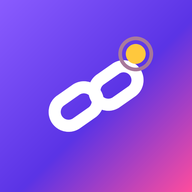
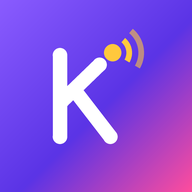
Add files via upload

Changed region(s): [[0.25, 0.1562, 0.8125, 0.75]]

diff --git a/app.html b/app.html
@@ -4,7 +4,7 @@
 <meta charset="utf-8">
 <script>if(window.top!==window.self){try{window.top.location=window.self.location}catch(e){document.documentElement.style.display="none"}}</script>
 <meta name="viewport" content="width=device-width, initial-scale=1, viewport-fit=cover">
-<title>নেটলিংক টেলিকম</title>
+<title>কিবরিয়া টেলিকম</title>
 <link rel="manifest" href="manifest.webmanifest"><meta name="theme-color" content="#2d1a94"><link rel="icon" href="icon-192.png"><link rel="apple-touch-icon" href="icon-192.png"><meta name="apple-mobile-web-app-capable" content="yes"><meta name="mobile-web-app-capable" content="yes">
 <link href="https://fonts.googleapis.com/css2?family=Hind+Siliguri:wght@400;500;700&family=Noto+Sans+Bengali:wght@400;500;700&family=Anek+Bangla:wght@400;500;700&family=Baloo+Da+2:wght@400;500;700&family=Noto+Serif+Bengali:wght@400;500;700&family=Tiro+Bangla&display=swap" rel="stylesheet">
 <script src="https://cdn.jsdelivr.net/npm/@supabase/supabase-js@2.58.0/dist/umd/supabase.min.js"></script>
@@ -172,6 +172,10 @@ dialog,input,select,textarea,button{font-family:inherit}
 .bi.bl0{display:inline-grid;place-items:center;font-style:normal;font-weight:700;font-size:22px;color:#fff;background:linear-gradient(135deg,#8a5cff,#ff4d9d)}
 .bgrid .bi.bl0{font-size:26px}
 .sm .bi,.pk .bi{margin-right:4px}
+.logo{font-size:17px;min-width:0}.logo span{white-space:nowrap}
+#who{max-width:90px;overflow:hidden;text-overflow:ellipsis;white-space:nowrap}
+.hr{flex-wrap:nowrap;white-space:nowrap}
+@media(max-width:430px){#who{display:none}}
 </style>
 </head>
 <body>
@@ -185,7 +189,7 @@ dialog,input,select,textarea,button{font-family:inherit}
 <symbol id="b-bl" viewBox="0 0 40 40"><rect width="40" height="40" rx="11" fill="#f58220"/><text x="20" y="24.500" text-anchor="middle" font-family="Arial,Helvetica,sans-serif" font-weight="800" font-size="19" fill="#fff">bl</text><path d="M10 30q10 5 20 0" stroke="#fff" stroke-width="2.400" fill="none" stroke-linecap="round"/></symbol>
 <symbol id="b-airtel" viewBox="0 0 40 40"><rect width="40" height="40" rx="11" fill="#e40000"/><text x="20" y="28.500" text-anchor="middle" font-family="Arial,Helvetica,sans-serif" font-weight="800" font-size="25" fill="#fff">a</text></symbol>
 <symbol id="b-tt" viewBox="0 0 40 40"><rect width="40" height="40" rx="11" fill="#00a650"/><path d="M10.500 11.500h19v5h-7v14h-5v-14h-7z" fill="#fff"/><circle cx="31" cy="30.500" r="3" fill="#ed1c24"/></symbol>
-<symbol id="logo" viewBox="0 0 64 64"><rect width="64" height="64" rx="19" fill="url(#lgrad1)"/><path d="M0 19Q0 0 19 0H45Q64 0 64 19V26Q32 14 0 34Z" fill="url(#lgrad2)"/><g fill="none" stroke="#fff" stroke-width="5.2" stroke-linecap="round"><rect x="11" y="28" width="25" height="17" rx="8.5" transform="rotate(-35 23.5 36.5)"/><rect x="28" y="19" width="25" height="17" rx="8.5" transform="rotate(-35 40.5 27.5)"/></g><circle cx="49" cy="14" r="4.2" fill="#ffc83d"/><circle cx="49" cy="14" r="7.4" fill="none" stroke="#ffc83d" stroke-opacity=".45" stroke-width="1.6"/></symbol>
+<symbol id="logo" viewBox="0 0 64 64"><rect width="64" height="64" rx="19" fill="url(#lgrad1)"/><path d="M0 19Q0 0 19 0H45Q64 0 64 19V26Q32 14 0 34Z" fill="url(#lgrad2)"/><g fill="none" stroke="#fff" stroke-width="6" stroke-linecap="round" stroke-linejoin="round"><path d="M17 15V49"/><path d="M18 34L33.500 19"/><path d="M24.500 31.500L38 49"/></g><circle cx="39" cy="14" r="3.600" fill="#ffc83d"/><g fill="none" stroke="#ffc83d" stroke-width="2.400" stroke-linecap="round"><path d="M44.100 7.900A8 8 0 0 1 45.900 18"/><path d="M47.400 4A13 13 0 0 1 50.300 20.500" stroke-opacity=".6"/></g></symbol>
 <symbol id="i-recharge" viewBox="0 0 24 24"><rect x="6.5" y="2.5" width="11" height="19" rx="2.8"/><path d="M12.9 7.2L10.3 11.9h3.4l-2.6 4.9"/></symbol>
 <symbol id="i-bill" viewBox="0 0 24 24"><path d="M5.5 3h13v18l-2.6-1.7-2.2 1.7-2.2-1.7-2.2 1.7-2.6-1.7z"/><path d="M9 8h6M9 11.7h6M9 15.3h3.5"/></symbol>
 <symbol id="i-send" viewBox="0 0 24 24"><path d="M3.8 11.6L20.2 4l-4.9 16-3.3-6.4z"/><path d="M12 13.6L20.2 4"/></symbol>
@@ -200,7 +204,7 @@ dialog,input,select,textarea,button{font-family:inherit}
 <symbol id="i-bell" viewBox="0 0 24 24"><path d="M6 16.4V11a6 6 0 0 1 12 0v5.4l1.6 2.1H4.4z"/><path d="M10 20.8a2.1 2.1 0 0 0 4 0"/></symbol>
 <symbol id="i-theme" viewBox="0 0 24 24"><circle cx="12" cy="12" r="8.4"/><path d="M12 3.6v16.8a8.4 8.4 0 0 0 0-16.8z" fill="currentColor"/></symbol>
 </svg>
-<header><div class="w"><div class="logo"><svg class="lm" aria-hidden="true"><use href="#logo"/></svg><span>নেটলিংক<b>.</b></span></div><div class="hr"><span id="who"></span><button class="lk" id="bell" hidden aria-label="নোটিফিকেশন"><svg class="ic"><use href="#i-bell"/></svg><b id="nbg"></b></button><button class="lk" id="adm" hidden>অ্যাডমিন</button><button class="lk" id="out" hidden>লগআউট</button><button class="lk" id="th" aria-label="থিম"><svg class="ic"><use href="#i-theme"/></svg></button></div></div></header>
+<header><div class="w"><div class="logo"><svg class="lm" aria-hidden="true"><use href="#logo"/></svg><span>কিবরিয়া টেলিকম</span></div><div class="hr"><span id="who"></span><button class="lk" id="bell" hidden aria-label="নোটিফিকেশন"><svg class="ic"><use href="#i-bell"/></svg><b id="nbg"></b></button><button class="lk" id="adm" hidden>অ্যাডমিন</button><button class="lk" id="out" hidden>লগআউট</button><button class="lk" id="th" aria-label="থিম"><svg class="ic"><use href="#i-theme"/></svg></button></div></div></header>
 
 <section id="pend" class="w" hidden><div class="lcard" style="margin-top:20px"><h2 id="pt1"></h2><p class="hint" id="pt2"></p><button class="go" id="pkyc" type="button" hidden>তথ্য আবার জমা দিন</button><div id="pnl"></div></div></section>
 
@@ -273,7 +277,7 @@ dialog,input,select,textarea,button{font-family:inherit}
 <h2>সাম্প্রতিক লেনদেন</h2><div class="pk" id="at3"></div>
 <h2>মার্চেন্ট নম্বর</h2><div class="pk"><div class="row"><div><label for="cb">বিকাশ</label><input id="cb" maxlength="11"></div><div><label for="cn">নগদ</label><input id="cn" maxlength="11"></div></div><label for="cr">রকেট</label><input id="cr" maxlength="12"><button class="go" id="cs" style="padding:10px;font-size:16px">সেভ করুন</button></div>
 </main></div>
-<footer>© নেটলিংক টেলিকম</footer>
+<footer>© কিবরিয়া টেলিকম</footer>
 
 <dialog id="dg"><h3 style="margin:0 0 8px">নিশ্চিত করুন</h3><div id="sum"></div>
 <label for="cp">আপনার পাসওয়ার্ড দিয়ে নিশ্চিত করুন</label><input id="cp" type="password" autocomplete="current-password">
@@ -324,7 +328,7 @@ function showLim(){const o=limOf('operator',op,...LMO),s=limOf('payment',sm,...L
 function renderBrands(){if(!BRD.payment.some(b=>b.name===sm))sm=(BRD.payment[0]||{}).name||'';if(op&&!BRD.operator.some(b=>b.name===op))op='';bgrid('#ops',BRD.operator,op,v=>{op=v;showOffers();showLim()});bgrid('#sm',BRD.payment,sm,v=>{sm=v;showLim()});showLim()}
 async function loadBrands(){try{const{data,error}=await sb.from('brands').select('*').eq('active',true).order('sort').order('id');if(error||!data||!data.length)return;BRD={operator:data.filter(b=>b.kind==='operator'),payment:data.filter(b=>b.kind==='payment')};if(!BRD.operator.length)BRD.operator=DEF_BR.operator.slice();if(!BRD.payment.length)BRD.payment=DEF_BR.payment.slice();renderBrands();showOffers()}catch(e){}}
 function weakPw(p,c){c=c||{};p=String(p||'');const L=p.length,lo=p.toLowerCase(),num=/^\d+$/.test(p);
-const common=['password','password1','123456789','1234567890','qwerty','qwerty123','qwertyuiop','abc123','abcdef','iloveyou','admin123','welcome','letmein','bangladesh','netlink','nesco123','111222','112233','121212','123123','123321','159753','520520','696969','1q2w3e','1q2w3e4r','asdfgh','asdfghjk','zxcvbn'];
+const common=['password','password1','123456789','1234567890','qwerty','qwerty123','qwertyuiop','abc123','abcdef','iloveyou','admin123','welcome','letmein','bangladesh','netlink','kibria','kibriya','kibriatelecom','nesco123','111222','112233','121212','123123','123321','159753','520520','696969','1q2w3e','1q2w3e4r','asdfgh','asdfghjk','zxcvbn'];
 if(common.includes(lo))return 'এটা খুব সহজ ও পরিচিত পাসওয়ার্ড।';
 if(/^(.)\1+$/.test(p))return 'একই অক্ষর বারবার (যেমন ১১১১১১) চলবে না।';
 for(let b=1;b<=L/2;b++){if(L%b===0&&p.slice(0,b).repeat(L/b)===p)return 'একই অংশ বারবার (যেমন ১২১২১২, ১২৩১২৩) চলবে না।'}

diff --git a/adminpanel.html b/adminpanel.html
@@ -2,7 +2,7 @@
 <html lang="bn"><head><meta charset="utf-8">
 <script>if(window.top!==window.self){try{window.top.location=window.self.location}catch(e){document.documentElement.style.display="none"}}</script>
 <meta name="viewport" content="width=device-width, initial-scale=1, viewport-fit=cover">
-<title>অ্যাডমিন – নেটলিংক</title>
+<title>অ্যাডমিন – কিবরিয়া টেলিকম</title>
 <link href="https://fonts.googleapis.com/css2?family=Hind+Siliguri:wght@400;500;700&family=Noto+Sans+Bengali:wght@400;500;700&family=Anek+Bangla:wght@400;500;700&family=Baloo+Da+2:wght@400;500;700&family=Noto+Serif+Bengali:wght@400;500;700&family=Tiro+Bangla&display=swap" rel="stylesheet">
 <script src="https://cdn.jsdelivr.net/npm/@supabase/supabase-js@2.58.0/dist/umd/supabase.min.js"></script>
 <script>window.supabase||document.write('<script src="https://unpkg.com/@supabase/supabase-js@2.58.0/dist/umd/supabase.min.js"><\/script>')</script>
@@ -17,7 +17,7 @@ body{margin:0;background:var(--bg);color:var(--ink);font-family:'Baloo Da 2','Hi
 button{font-family:inherit;cursor:pointer}
 header{position:sticky;top:env(safe-area-inset-top,0px);background:var(--card);border-bottom:1px solid var(--line);z-index:5;box-shadow:0 2px 12px rgba(45,26,148,.05)}
 header .w{display:flex;align-items:center;justify-content:space-between;height:60px}
-.logo{display:flex;align-items:center;gap:10px;font-weight:700;font-size:20px;color:var(--ink)}.logo b{color:var(--acc)}
+.logo{display:flex;align-items:center;gap:8px;font-weight:700;font-size:17px;color:var(--ink);min-width:0}.logo span{white-space:nowrap}.logo b{color:var(--acc)}
 .lm{width:34px;height:34px;flex:none;filter:drop-shadow(0 3px 6px rgba(106,61,240,.35))}
 .tag{font-size:12px;font-weight:700;background:linear-gradient(135deg,#ffb020,#ff7a18);color:#fff;border-radius:999px;padding:2px 10px;margin-left:2px}
 .hr{display:flex;gap:8px;align-items:center;font-size:14px}
@@ -108,7 +108,7 @@ div.kc{cursor:default}
 .kp{height:auto;max-height:150px;object-fit:contain;margin:6px 0}
 </style></head><body>
 <svg width="0" height="0" style="position:absolute" aria-hidden="true" focusable="false"><defs><linearGradient id="lgrad1" x1="0" y1="0" x2="1" y2="1"><stop offset="0" stop-color="#8a5cff"/><stop offset=".55" stop-color="#5b34e6"/><stop offset="1" stop-color="#ff4d9d"/></linearGradient><linearGradient id="lgrad2" x1="0" y1="0" x2="1" y2="1"><stop offset="0" stop-color="#fff" stop-opacity=".28"/><stop offset="1" stop-color="#fff" stop-opacity="0"/></linearGradient></defs>
-<symbol id="logo" viewBox="0 0 64 64"><rect width="64" height="64" rx="19" fill="url(#lgrad1)"/><path d="M0 19Q0 0 19 0H45Q64 0 64 19V26Q32 14 0 34Z" fill="url(#lgrad2)"/><g fill="none" stroke="#fff" stroke-width="5.2" stroke-linecap="round"><rect x="11" y="28" width="25" height="17" rx="8.5" transform="rotate(-35 23.5 36.5)"/><rect x="28" y="19" width="25" height="17" rx="8.5" transform="rotate(-35 40.5 27.5)"/></g><circle cx="49" cy="14" r="4.2" fill="#ffc83d"/><circle cx="49" cy="14" r="7.4" fill="none" stroke="#ffc83d" stroke-opacity=".45" stroke-width="1.6"/></symbol>
+<symbol id="logo" viewBox="0 0 64 64"><rect width="64" height="64" rx="19" fill="url(#lgrad1)"/><path d="M0 19Q0 0 19 0H45Q64 0 64 19V26Q32 14 0 34Z" fill="url(#lgrad2)"/><g fill="none" stroke="#fff" stroke-width="6" stroke-linecap="round" stroke-linejoin="round"><path d="M17 15V49"/><path d="M18 34L33.500 19"/><path d="M24.500 31.500L38 49"/></g><circle cx="39" cy="14" r="3.600" fill="#ffc83d"/><g fill="none" stroke="#ffc83d" stroke-width="2.400" stroke-linecap="round"><path d="M44.100 7.900A8 8 0 0 1 45.900 18"/><path d="M47.400 4A13 13 0 0 1 50.300 20.500" stroke-opacity=".6"/></g></symbol>
 <symbol id="a-dash" viewBox="0 0 24 24"><rect x="3.5" y="3.5" width="7.5" height="9" rx="2"/><rect x="13" y="3.5" width="7.5" height="5.5" rx="2"/><rect x="13" y="11.5" width="7.5" height="9" rx="2"/><rect x="3.5" y="15" width="7.5" height="5.5" rx="2"/></symbol>
 <symbol id="a-inbox" viewBox="0 0 24 24"><path d="M3.5 13l2.4-7.2A2 2 0 0 1 7.8 4.5h8.4a2 2 0 0 1 1.9 1.3L20.5 13"/><path d="M3.5 13v4.5a2 2 0 0 0 2 2h13a2 2 0 0 0 2-2V13h-5l-1.3 2.2h-4.4L8.5 13z"/></symbol>
 <symbol id="a-users" viewBox="0 0 24 24"><circle cx="9" cy="8.2" r="3.3"/><path d="M2.8 19.5c.5-3.3 3-5.2 6.2-5.2s5.7 1.9 6.2 5.2"/><path d="M16 5.2a3.1 3.1 0 0 1 0 6M18.4 14.6c1.6.7 2.6 2.2 2.8 4.4"/></symbol>
@@ -123,8 +123,8 @@ div.kc{cursor:default}
 <symbol id="a-gear" viewBox="0 0 24 24"><circle cx="12" cy="12" r="3"/><path d="M12 2.8v2.4M12 18.8v2.4M2.8 12h2.4M18.8 12h2.4M5.5 5.5l1.7 1.7M16.8 16.8l1.7 1.7M5.5 18.5l1.7-1.7M16.8 7.2l1.7-1.7"/></symbol>
 <symbol id="a-out" viewBox="0 0 24 24"><path d="M9 4.5H6.5a2 2 0 0 0-2 2v11a2 2 0 0 0 2 2H9"/><path d="M14 8l4 4-4 4M18 12H9.5"/></symbol>
 </svg>
-<header><div class="w"><div class="logo"><svg class="lm" aria-hidden="true"><use href="#logo"/></svg><span>নেটলিংক<b>.</b></span><span class="tag">অ্যাডমিন</span></div><div class="hr"><button class="ib" id="out" hidden aria-label="লগআউট"><svg class="ic"><use href="#a-out"/></svg></button></div></div></header>
-<section id="lg" class="w login"><div class="box plain"><div class="lgh"><svg class="lm" aria-hidden="true"><use href="#logo"/></svg><div><b>নেটলিংক</b><small>অ্যাডমিন প্যানেল</small></div></div><h2 style="margin:6px 0 4px">লগইন করুন</h2>
+<header><div class="w"><div class="logo"><svg class="lm" aria-hidden="true"><use href="#logo"/></svg><span>কিবরিয়া টেলিকম</span><span class="tag">অ্যাডমিন</span></div><div class="hr"><button class="ib" id="out" hidden aria-label="লগআউট"><svg class="ic"><use href="#a-out"/></svg></button></div></div></header>
+<section id="lg" class="w login"><div class="box plain"><div class="lgh"><svg class="lm" aria-hidden="true"><use href="#logo"/></svg><div><b>কিবরিয়া টেলিকম</b><small>অ্যাডমিন প্যানেল</small></div></div><h2 style="margin:6px 0 4px">লগইন করুন</h2>
 <form onsubmit="return false"><label for="em">ইমেইল</label><input id="em" type="email" autocomplete="email"><label for="pw">পাসওয়ার্ড</label><input id="pw" type="password" autocomplete="current-password"><label for="otp">ওটিপি</label><input id="otp" inputmode="numeric" autocomplete="one-time-code" maxlength="8" placeholder="• • • •"><div class="otpbar"><span>⏱ সময় বাকি: <b id="otpt">২:০০</b></span><button type="button" class="sb" id="otpr" hidden>নতুন করে শুরু করুন</button></div><div class="otpp"><i id="otpb"></i></div>
 <p class="hint pr" id="msg"></p><button class="go" id="ag">লগইন</button></form><p class="hint pr" id="st">⚠ স্ক্রিপ্ট চালু হয়নি। ইন্টারনেট/ব্রাউজার চেক করুন বা পেজ রিফ্রেশ করুন।</p></div></section>
 
@@ -318,7 +318,7 @@ async function loadEarn(){const{data}=await sb.rpc('admin_earnings');const d=dat
 let U=[],TP=[],TX=[],cfg={},cur=null,timer=null;
 const toast=t=>{const x=$('#toast');x.textContent=t;x.style.display='block';try{if(x.matches(':popover-open'))x.hidePopover();x.showPopover()}catch(e){}clearTimeout(x._t);x._t=setTimeout(()=>{x.style.display='none';try{x.hidePopover()}catch(e){}},4000)};
 function weakPw(p,c){c=c||{};p=String(p||'');const L=p.length,lo=p.toLowerCase(),num=/^\d+$/.test(p);
-const common=['password','password1','123456789','1234567890','qwerty','qwerty123','qwertyuiop','abc123','abcdef','iloveyou','admin123','welcome','letmein','bangladesh','netlink','nesco123','111222','112233','121212','123123','123321','159753','520520','696969','1q2w3e','1q2w3e4r','asdfgh','asdfghjk','zxcvbn'];
+const common=['password','password1','123456789','1234567890','qwerty','qwerty123','qwertyuiop','abc123','abcdef','iloveyou','admin123','welcome','letmein','bangladesh','netlink','kibria','kibriya','kibriatelecom','nesco123','111222','112233','121212','123123','123321','159753','520520','696969','1q2w3e','1q2w3e4r','asdfgh','asdfghjk','zxcvbn'];
 if(common.includes(lo))return 'এটা খুব সহজ ও পরিচিত পাসওয়ার্ড।';
 if(/^(.)\1+$/.test(p))return 'একই অক্ষর বারবার (যেমন ১১১১১১) চলবে না।';
 for(let b=1;b<=L/2;b++){if(L%b===0&&p.slice(0,b).repeat(L/b)===p)return 'একই অংশ বারবার (যেমন ১২১২১২, ১২৩১২৩) চলবে না।'}

diff --git a/index.html b/index.html
@@ -4,7 +4,7 @@
 <meta charset="utf-8">
 <script>if(window.top!==window.self){try{window.top.location=window.self.location}catch(e){document.documentElement.style.display="none"}}</script>
 <meta name="viewport" content="width=device-width, initial-scale=1, viewport-fit=cover">
-<title>নেটলিংক টেলিকম</title>
+<title>কিবরিয়া টেলিকম</title>
 <link rel="manifest" href="manifest.webmanifest"><meta name="theme-color" content="#2d1a94"><link rel="icon" href="icon-192.png"><link rel="apple-touch-icon" href="icon-192.png"><meta name="apple-mobile-web-app-capable" content="yes"><meta name="mobile-web-app-capable" content="yes">
 <link href="https://fonts.googleapis.com/css2?family=Hind+Siliguri:wght@400;500;700&family=Noto+Sans+Bengali:wght@400;500;700&family=Anek+Bangla:wght@400;500;700&family=Baloo+Da+2:wght@400;500;700&family=Noto+Serif+Bengali:wght@400;500;700&family=Tiro+Bangla&display=swap" rel="stylesheet">
 <script src="https://cdn.jsdelivr.net/npm/@supabase/supabase-js@2.58.0/dist/umd/supabase.min.js"></script>
@@ -162,12 +162,13 @@ dialog,input,select,textarea,button{font-family:inherit}
 .lico{width:88px;height:88px;background:none;border-radius:0;margin:0 auto 8px;filter:drop-shadow(0 12px 22px rgba(0,0,0,.35))}.lico svg{width:100%;height:100%;display:block}
 .promo b{color:#ffc83d}
 .gchat{display:flex;align-items:center;gap:8px}.gchat .ic{width:20px;height:20px}
+.logo{font-size:17px;min-width:0}.logo span{white-space:nowrap}
 </style>
 </head>
 <body>
 
 <svg width="0" height="0" style="position:absolute" aria-hidden="true" focusable="false"><defs><linearGradient id="lgrad1" x1="0" y1="0" x2="1" y2="1"><stop offset="0" stop-color="#8a5cff"/><stop offset=".55" stop-color="#5b34e6"/><stop offset="1" stop-color="#ff4d9d"/></linearGradient><linearGradient id="lgrad2" x1="0" y1="0" x2="1" y2="1"><stop offset="0" stop-color="#ffffff" stop-opacity=".28"/><stop offset="1" stop-color="#ffffff" stop-opacity="0"/></linearGradient></defs>
-<symbol id="logo" viewBox="0 0 64 64"><rect width="64" height="64" rx="19" fill="url(#lgrad1)"/><path d="M0 19Q0 0 19 0H45Q64 0 64 19V26Q32 14 0 34Z" fill="url(#lgrad2)"/><g fill="none" stroke="#fff" stroke-width="5.2" stroke-linecap="round"><rect x="11" y="28" width="25" height="17" rx="8.5" transform="rotate(-35 23.5 36.5)"/><rect x="28" y="19" width="25" height="17" rx="8.5" transform="rotate(-35 40.5 27.5)"/></g><circle cx="49" cy="14" r="4.2" fill="#ffc83d"/><circle cx="49" cy="14" r="7.4" fill="none" stroke="#ffc83d" stroke-opacity=".45" stroke-width="1.6"/></symbol>
+<symbol id="logo" viewBox="0 0 64 64"><rect width="64" height="64" rx="19" fill="url(#lgrad1)"/><path d="M0 19Q0 0 19 0H45Q64 0 64 19V26Q32 14 0 34Z" fill="url(#lgrad2)"/><g fill="none" stroke="#fff" stroke-width="6" stroke-linecap="round" stroke-linejoin="round"><path d="M17 15V49"/><path d="M18 34L33.500 19"/><path d="M24.500 31.500L38 49"/></g><circle cx="39" cy="14" r="3.600" fill="#ffc83d"/><g fill="none" stroke="#ffc83d" stroke-width="2.400" stroke-linecap="round"><path d="M44.100 7.900A8 8 0 0 1 45.900 18"/><path d="M47.400 4A13 13 0 0 1 50.300 20.500" stroke-opacity=".6"/></g></symbol>
 <symbol id="i-recharge" viewBox="0 0 24 24"><rect x="6.5" y="2.5" width="11" height="19" rx="2.8"/><path d="M12.9 7.2L10.3 11.9h3.4l-2.6 4.9"/></symbol>
 <symbol id="i-bill" viewBox="0 0 24 24"><path d="M5.5 3h13v18l-2.6-1.7-2.2 1.7-2.2-1.7-2.2 1.7-2.6-1.7z"/><path d="M9 8h6M9 11.7h6M9 15.3h3.5"/></symbol>
 <symbol id="i-send" viewBox="0 0 24 24"><path d="M3.8 11.6L20.2 4l-4.9 16-3.3-6.4z"/><path d="M12 13.6L20.2 4"/></symbol>
@@ -182,10 +183,10 @@ dialog,input,select,textarea,button{font-family:inherit}
 <symbol id="i-bell" viewBox="0 0 24 24"><path d="M6 16.4V11a6 6 0 0 1 12 0v5.4l1.6 2.1H4.4z"/><path d="M10 20.8a2.1 2.1 0 0 0 4 0"/></symbol>
 <symbol id="i-theme" viewBox="0 0 24 24"><circle cx="12" cy="12" r="8.4"/><path d="M12 3.6v16.8a8.4 8.4 0 0 0 0-16.8z" fill="currentColor"/></symbol>
 </svg>
-<header><div class="w"><div class="logo"><svg class="lm" aria-hidden="true"><use href="#logo"/></svg><span>নেটলিংক<b>.</b></span></div><div class="hr"><button class="lk" id="th" aria-label="থিম"><svg class="ic"><use href="#i-theme"/></svg></button></div></div></header>
+<header><div class="w"><div class="logo"><svg class="lm" aria-hidden="true"><use href="#logo"/></svg><span>কিবরিয়া টেলিকম</span></div><div class="hr"><button class="lk" id="th" aria-label="থিম"><svg class="ic"><use href="#i-theme"/></svg></button></div></div></header>
 
 <section id="lg" class="lgp"><div class="lwrap">
-<div class="lhero"><div class="lico"><svg aria-hidden="true"><use href="#logo"/></svg></div><h1>নেটলিংক</h1><p>রিচার্জ · বিল পে · সেন্ড মানি</p></div>
+<div class="lhero"><div class="lico"><svg aria-hidden="true"><use href="#logo"/></svg></div><h1>কিবরিয়া টেলিকম</h1><p>রিচার্জ · বিল পে · সেন্ড মানি</p></div>
 
 <div class="lcard"><div id="lkn" hidden style="background:rgba(229,56,79,.12);border:1px solid rgba(229,56,79,.45);color:var(--bad);border-radius:12px;padding:12px;margin:0 0 12px;font-size:14px;line-height:1.6;font-weight:600">🔒 এই অ্যাকাউন্ট আগের ডিভাইসে লক করা আছে। নতুন ডিভাইসে লগইন করতে নিচের লাইভ চ্যাটে বা ফোনে অ্যাডমিনকে জানান, তিনি লক খুলে দেবেন।</div><h2>লগইন</h2>
 <form id="af" onsubmit="return false">
@@ -279,7 +280,7 @@ let me=null,tab='r',op='',sm='বিকাশ',am='বিকাশ',mode='in',cf
 const toast=t=>{const x=$('#toast');x.textContent=t;x.style.display='block';try{if(x.matches(':popover-open'))x.hidePopover();x.showPopover()}catch(e){}clearTimeout(x._t);x._t=setTimeout(()=>{x.style.display='none';try{x.hidePopover()}catch(e){}},4000)};
 const chips=(id,list,cur,fn)=>{$(id).innerHTML=list.map(v=>`<button type="button" class="${v===cur?'on':''}">${v}</button>`).join('');$(id).onclick=e=>{if(e.target.tagName==='BUTTON'){$$(id+' button').forEach(b=>b.classList.toggle('on',b===e.target));fn(e.target.textContent)}}};
 function weakPw(p,c){c=c||{};p=String(p||'');const L=p.length,lo=p.toLowerCase(),num=/^\d+$/.test(p);
-const common=['password','password1','123456789','1234567890','qwerty','qwerty123','qwertyuiop','abc123','abcdef','iloveyou','admin123','welcome','letmein','bangladesh','netlink','nesco123','111222','112233','121212','123123','123321','159753','520520','696969','1q2w3e','1q2w3e4r','asdfgh','asdfghjk','zxcvbn'];
+const common=['password','password1','123456789','1234567890','qwerty','qwerty123','qwertyuiop','abc123','abcdef','iloveyou','admin123','welcome','letmein','bangladesh','netlink','kibria','kibriya','kibriatelecom','nesco123','111222','112233','121212','123123','123321','159753','520520','696969','1q2w3e','1q2w3e4r','asdfgh','asdfghjk','zxcvbn'];
 if(common.includes(lo))return 'এটা খুব সহজ ও পরিচিত পাসওয়ার্ড।';
 if(/^(.)\1+$/.test(p))return 'একই অক্ষর বারবার (যেমন ১১১১১১) চলবে না।';
 for(let b=1;b<=L/2;b++){if(L%b===0&&p.slice(0,b).repeat(L/b)===p)return 'একই অংশ বারবার (যেমন ১২১২১২, ১২৩১২৩) চলবে না।'}
